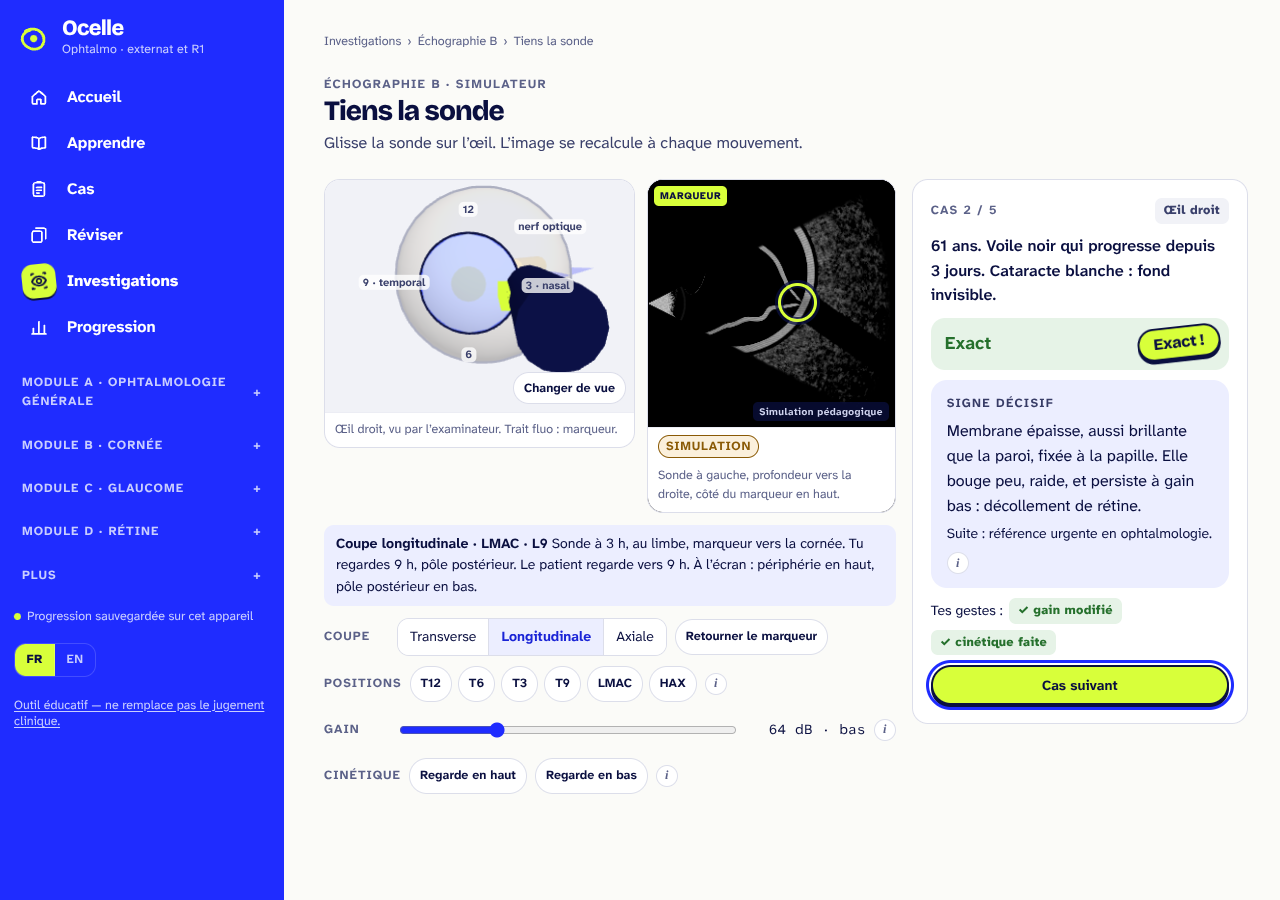
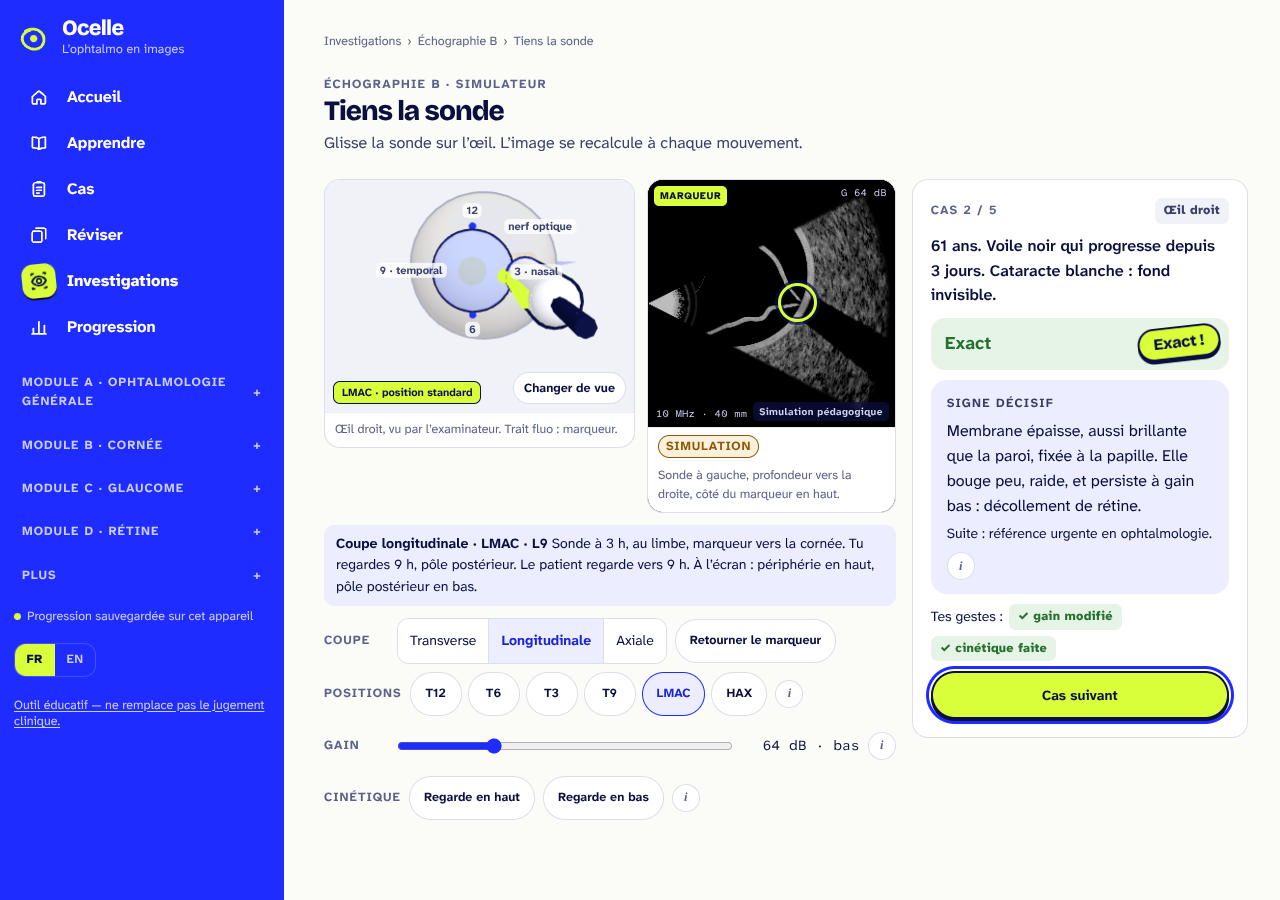
Scénario de démo pour Dr Saheb (docs/DEMO-SAHEB.md)
Claude-Session: https://claude.ai/code/session_018GVFi3F6V1uxxUXMe3i7GE

diff --git a/tests/run.py b/tests/run.py
@@ -96,10 +96,13 @@ def sim_smoke(p):
                 if phone:
                     page.evaluate("() => window.scrollTo(0, document.documentElement.scrollHeight)"); page.wait_for_timeout(300)
                     off = page.evaluate("() => document.querySelector('.bs3-grid').getBoundingClientRect().bottom < 0")
-                    if off and not page.evaluate("() => window.__bs3.paused()"): problems.append(tag + 'rendering not paused off-screen')
+                    if off:
+                        try: page.wait_for_function('window.__bs3.paused()', timeout=4000)   # IntersectionObserver is asynchronous
+                        except Exception: problems.append(tag + 'rendering not paused off-screen')
                     if not off: log('  ' + tag + 'stage still on screen at the bottom of the page: pause not checked')
-                    page.evaluate("() => window.scrollTo(0, 0)"); page.wait_for_timeout(300)
-                    if page.evaluate("() => window.__bs3.paused()"): problems.append(tag + 'rendering still paused back on screen')
+                    page.evaluate("() => window.scrollTo(0, 0)")
+                    try: page.wait_for_function('!window.__bs3.paused()', timeout=4000)
+                    except Exception: problems.append(tag + 'rendering still paused back on screen')
                 # the 5 cases, end to end: answer, decisive sign, next ... result, then the series can start again
                 ids = page.evaluate("() => window.BscanSim.cases.map(c => c.id)")
                 for k, cid in enumerate(ids):

diff --git a/docs/DEMO-SAHEB.md b/docs/DEMO-SAHEB.md
@@ -1,0 +1,44 @@
+# Démo Ocelle : Dr Saheb (lundi 23 novembre 2026)
+
+Durée visée : 5 minutes de démo, puis la discussion. Sur ton téléphone, l'app installée sur l'écran d'accueil.
+
+## Avant la rencontre (10 min, la veille ou le matin)
+1. **Installer l'app (iPhone, Safari)** : ouvrir https://impeccasper-rgb.github.io/ophtalmo-academie/ → bouton Partager → « Sur l'écran d'accueil » → Ajouter. Ouvrir ensuite Ocelle depuis l'icône (plein écran, sans barre Safari).
+2. **Pré-charger les pages de la démo** (pour qu'elles marchent même si le Wi-Fi de l'hôpital est mauvais : le hors-ligne garde ce qui a été ouvert une fois) : ouvrir une fois chaque écran du parcours ci-dessous, y compris les images et le simulateur.
+3. Mettre le téléphone en mode Ne pas déranger, luminosité au maximum, langue FR.
+
+## Parcours (5 min)
+| Temps | Où | Ce que tu montres | Phrase clé |
+|---|---|---|---|
+| 0:00 | Accueil | L'identité, les modules (Cornée, Glaucome, Rétine, Examens) | « Ocelle, c'est l'ophtalmo en images : on observe, on répond, puis le signe décisif s'allume. Gratuit, en français et en anglais. » |
+| 0:30 | Glaucome → **Crise de fermeture de l'angle** (`#g-crise/voir`) | **Voir** : il touche lui-même le signe sur la photo | « On n'explique pas d'abord : on fait chercher le signe. » |
+| 1:00 | `#g-crise/comprendre` | Le **mécanisme dessiné** pas à pas (bloc pupillaire → iris bombé → angle fermé → PIO) | « Une idée par étape, l'apprenant avance au toucher. » |
+| 1:30 | `#g-crise/decider` | L'**arbre décisionnel** + le bloc **Traitement adapté au Québec** (acétazolamide PO, antiémétique, quand référer) | « Pensé pour l'externe et le médecin de 1re ligne, avec les délais de référence. » |
+| 2:15 | Examens → **Gonioscopie** (`#inv-gonio`) puis **Champ visuel** (`#inv-cv`) | Lire un angle (Shaffer), lire un 24-2 | « La section Examens fait lire les examens : observe → réponds → révèle. » |
+| 3:00 | Examens → Échographie B → **Tiens la sonde** (`#inv-bscan-sim`) | Glisser la sonde, baisser le gain, « Regarde en haut » | « Simulateur conçu à partir de 21 vidéos et 14 références ; les points discutés sont marqués à valider par un échographiste. » |
+| 4:00 | Réviser / un **Défi du jour** | Le format court, quotidien | « Le but : revenir 2 minutes par jour. » |
+| 4:30 | (parler) | La méthode et la suite | voir ci-dessous |
+
+## Ce que tu peux dire sur la méthode (30 s)
+- Contenu fondé sur les lignes directrices (AAO Preferred Practice Patterns, sociétés canadiennes) ; chaque fait sourcé dans un registre.
+- Développement assisté par IA, sous ta direction : une équipe d'agents (contenu, design, tests) + un relecteur critique indépendant qui note chaque version ; relecture glaucome faite au niveau spécialiste.
+- Images : atlas EyeRounds (licence non commerciale) et images libres ; dessins originaux.
+- Lancement public : décembre 2026.
+
+## Ce que tu peux lui demander (choisis 1–2)
+1. Accepterait-il de **relire le module glaucome** (ou de désigner un résident), pour pouvoir afficher « contenu relu par… » ?
+2. Un **pilote avec les externes/résidents de McGill** (séance projetée + questionnaire avant/après) → résumé à la SCO ou en pédagogie médicale (éthique à vérifier). Il pourrait superviser.
+3. Son avis sur la priorité suivante : simulateur de **gonioscopie** (inversion du miroir) ou de **tonométrie de Goldmann**.
+
+## Questions qu'il pourrait poser, et réponses courtes
+- **« C'est fait avec l'IA ? »** Oui, développement assisté par IA ; mon rôle : conception, direction pédagogique, choix cliniques, vérification. Tout est sourcé et relu.
+- **« Les images, c'est permis ? »** EyeRounds est sous licence CC BY-NC-ND (usage non commercial, image non modifiée, crédit) : c'est respecté ; une demande écrite est prête pour les réseaux sociaux.
+- **« Pourquoi PACS à 180° et pas 270° ? »** On suit la définition AAO (≥ 180°) ; ISGEO historique = 270° ; c'est indiqué.
+- **« EAGLE ? »** Chiffres du résumé du Lancet : PIO −1,18 mmHg, meilleure qualité de vie, plus coût-efficace que l'iridotomie.
+- **« MIGS, PreserFlo, XEN couverts par la RAMQ ? »** Point non confirmé : à vérifier avec lui.
+- **« Payant ? »** Gratuit, sans pub pour l'instant.
+
+## Si quelque chose bloque
+- Page blanche ou lente : tirer vers le bas pour recharger, ou rouvrir l'app.
+- Simulateur lent : le montrer sur ordinateur (même lien).
+- Voir aussi `docs/REVUE-GLAUCOME-SAHEB.md` (11 points de discussion possibles).

diff --git a/docs/bscan/SPEC-SIMULATEUR.md b/docs/bscan/SPEC-SIMULATEUR.md
@@ -373,6 +373,16 @@ Route `#inv-bscan-sim`, liée depuis le hub Investigations et depuis la page Éc
 | Tests | `tests/run.py`, fonction `sim_smoke` : la route charge, les canevas s’affichent, le glisser (souris et tactile 390 × 844) change l’image, le gain agit, la cinétique déplace la membrane puis revient au repos, mouvement réduit respecté |
 | Repli | Sans WebGL : message et lien vers l’outil 2D |
 
+Passe de finition (2026-11-22, pour la démonstration sur téléphone) :
+
+- Sonde redessinée : corps clair et fin, embout arrondi, bague cobalt, trait de marqueur fluo sur toute la longueur, câble.
+- Téléphone (390 × 844) : œil et image B empilés et dimensionnés selon la hauteur d’écran, visibles ensemble ; le glisser ne fait pas défiler la page ; cibles tactiles d’au moins 44 px.
+- Aimantation sur les positions standard (12 h, 3 h, 6 h, 9 h au limbe, et axiale), avec étiquette « T12 · position standard » et bouton correspondant allumé.
+- Image : tavelure à grains allongés latéralement (loi de type Rayleigh), orbite brillante contre la paroi puis atténuée, ombre du nerf optique évasée, écho initial élargi, affichage « G 76 dB » et « 10 MHz · 40 mm ».
+- Performance : rendu à la demande, ratio de pixels plafonné à 2, image B en 256 px sur téléphone, aucun rendu quand la scène est hors écran ou l’onglet masqué ; three.js chargé seulement sur cette route.
+- Parcours : après la réponse, la carte du cas remonte sous l’image ; résultat « n / 5 » à la fin, puis la série peut être relancée.
+- Test `sim_smoke` étendu : parcours complet des 5 cas en français clair (ordinateur) et en anglais sombre (téléphone tactile), cibles de 44 px, absence de défilement pendant le glisser, pause hors écran, mouvement réduit.
+
 Écarts par rapport à la spécification, à connaître avant la revue par l’expert :
 
 1. **Visée du faisceau.** Au limbe, le faisceau vise la papille (« on commence par le nerf optique »), puis balaie vers la périphérie quand la sonde glisse vers le fornix. C’est un choix de simulation : la spécification prévoyait un faisceau passant par le centre du globe, qui ne montrait pas le nerf au limbe.
